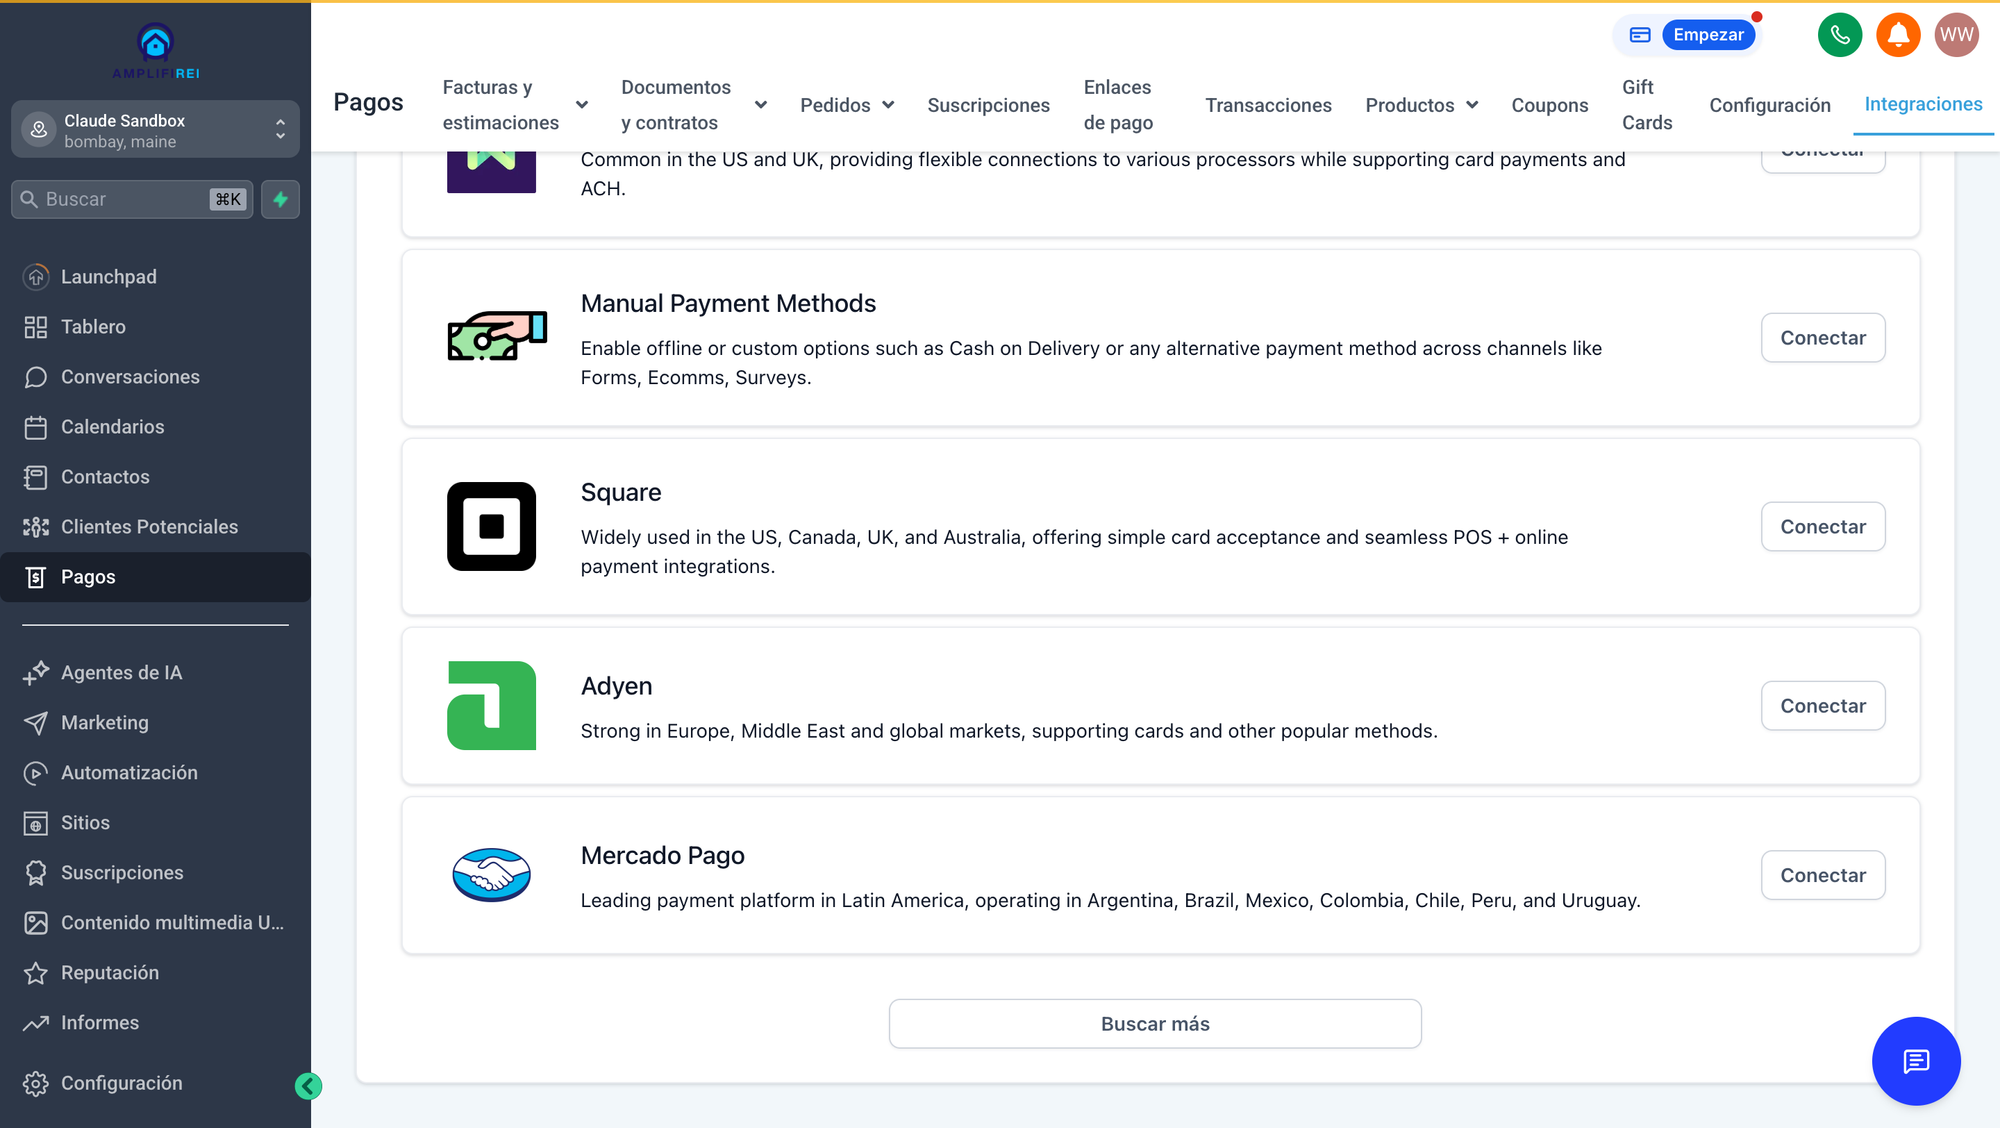
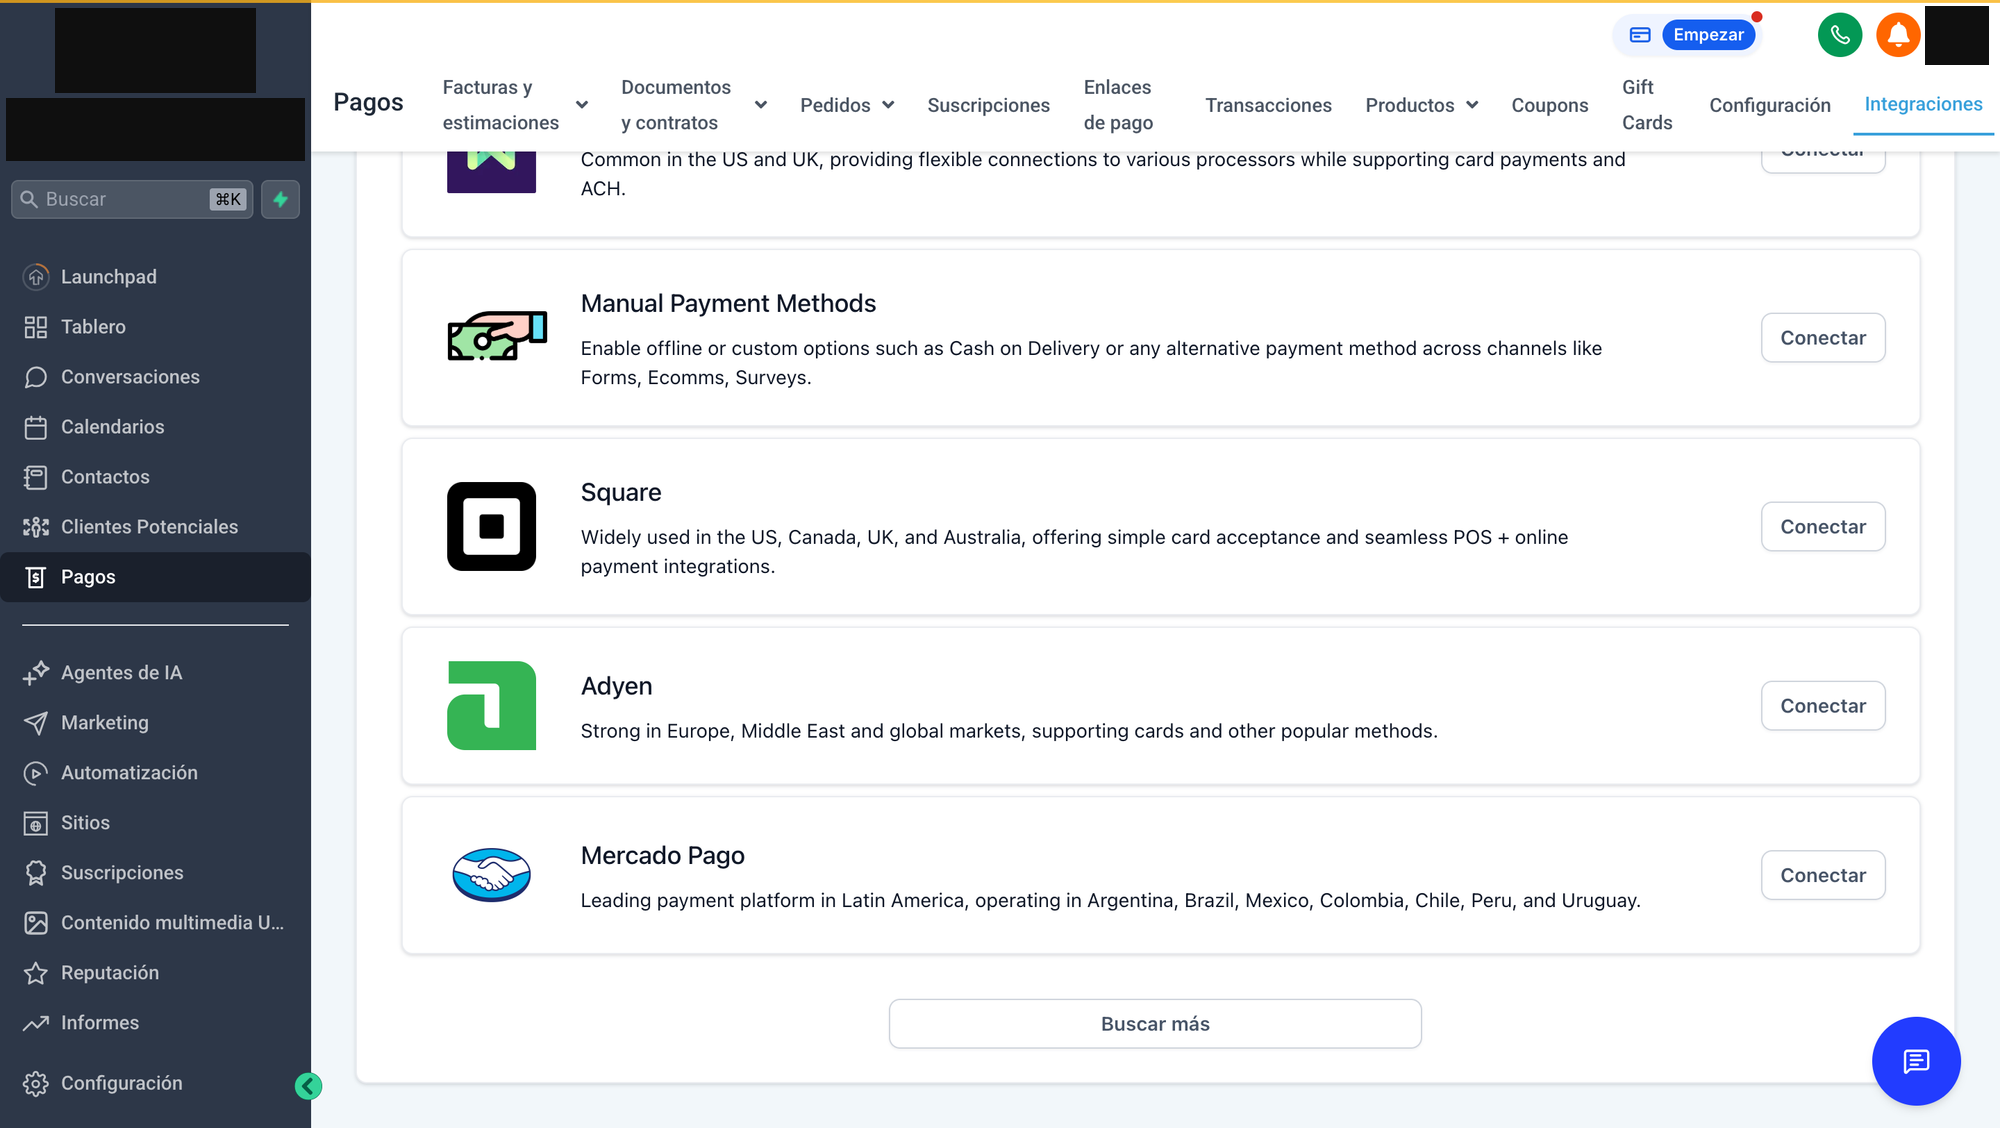
v0.3.5.0 feat: research-wedge rebuild #1 — configurar-workflows WhatsApp+MercadoPago + live image redaction fix (#47)
* feat: attested sandbox screenshots for es rebuild + redact 2 live June images in place

4 new redacted captures (WhatsApp offer, MP country selector, WhatsApp workflow
actions, workflows AI home). ghl-mercadopago-config-es.png and
ghl-mercadopago-card-es.png were live un-redacted (brand/sandbox identity visible).

* feat: rebuild configurar-workflows-whatsapp-mercadopago from wedge research (301->1554 words)

Answer-first per Caleb canon; firehose intro cut; 3 in-silo links; 5 figures;
2 trial CTAs restored; claim-ledger-gated content only; 4 review passes applied.

* chore: bump version and changelog (v0.3.5.0)

* docs: capture->redact->attest->publish hard rule in site CLAUDE.md (v0.3.5.0)

Gap that let two June captures go live un-redacted; now written where sessions read.

---------

Changed region(s): [[0.0, 0.0, 0.155, 0.1551], [0.961, 0.0, 1.0, 0.0621]]

diff --git a/CHANGELOG.md b/CHANGELOG.md
@@ -2,6 +2,15 @@
 
 All notable changes to globalhighlevel.com's static-site build are documented here.
 
+## [0.3.5.0] - 2026-07-28
+### Added
+- **First research-wedge rebuild is live: `configurar-workflows-gohighlevel-whatsapp-mercadopago` went from a 301-word shell to a 1,554-word how-to** built exclusively from verified sources (wedge vault, claim-ledger-gated). Answer-first structure per Caleb canon: a "Respuesta rápida" opens the page, the two firehose problem-agitation intro sections are gone, and a condensed "¿por qué?" follows the pasos. New content: WhatsApp setup with the 24-hour-window and template mechanics, two-layer pricing explained honestly ($10/mo platform→agency per docs; sub-accounts see their agency's resell price), the real 6-step Mercado Pago connection (native since 2026-04, 7 countries — in-product selector verified same-day), workflow build steps naming the 5 native WhatsApp actions, and a verifiable community-evidence section (300+-vote ideas thread, linked; named commenter quotes) replacing the fabricated "Caso Real" pattern. In-silo links added: up-link to /category/crm-communication/ + 2 contextual sibling spokes; zero cross-silo. Draft survived 3-pass codex research critique + codex native-es register pass + Claude adversarial pass + codex adversarial diff challenge (which caught a screenshot/caption mismatch and restored the two lost trial CTAs).
+- **4 first-hand sandbox screenshots wired in** (attested by owner 2026-07-28, solid-bar redaction: brand logo, sub-account name, avatar): WhatsApp sub-account offer screen, MP country selector, native WhatsApp workflow actions, workflows home with the beta AI generator; plus the June MP-card capture reused where the fresh integrations shot didn't show the MP card (codex adversarial catch — that capture was taken above the fold and stayed unpublished).
+### Fixed
+- **Two live images no longer leak the whitelabel brand/sandbox identity**: `ghl-mercadopago-config-es.png` and `ghl-mercadopago-card-es.png` (wired into the LATAM pagos post) had been published un-redacted by an earlier session — AMPLIFI REI logo, "Claude Sandbox" account name, and owner avatar visible. Both redacted in place with the standard solid-bar treatment.
+### Known
+- verify.py Check 4 reports 26 pre-existing canon link violations on main (hub-mercadopago + opiniones + authority-hub cross-silo links, incl. an auto-injected pillar link on this post). This branch adds zero new violations (violation sets diffed identical). Tracked for the hub-spoke linking cleanup.
+
 ## [0.3.4.0] - 2026-07-28
 ### Fixed
 - **28 Spanish posts no longer show their editorial scaffolding to readers.** The firehose-era es import shipped with the writer's own notes still in the body — 35 defects live on the site: bracketed editor notes readers could see (`[NOTA EDITORIAL: Aquí falta el caso de estudio…]`, `[SECCIÓN A COMPLETAR…]`, `[CONTINUAR CON STEPS TÉCNICOS…]`), **fabricated "Caso Real" case studies presented as real** (invented agencies and named invented people — "María" in Medellín, "Carolina" in CDMX, a Bogotá agency "que pasó de 3 a 15 clientes" — with invented revenue and conversion numbers; one admitted in its own editor note that the case was an "ejemplo estructura"), empty how-to stubs under promise-heavy headings, one unbracketed editor section ("Refrescar antes de publicar", now a reader-facing exchange-rate note), and one post that simply ended on a heading whose section never existed. A hypothetical framed as "Caso Real" was retitled "Ejemplo". All notes and fabricated cases are gone; real replacement content is a tracked follow-up (research-wedge rebuild).

diff --git a/globalhighlevel-site/CLAUDE.md b/globalhighlevel-site/CLAUDE.md
@@ -216,6 +216,22 @@ The canon link structure is enforced at render time by `build.py` and gated by
 - Student counts or community sizes
 - Awards, press mentions, certifications
 
+## Screenshots — capture → redact → attest → publish (HARD RULE, v0.3.5.0)
+
+No product screenshot reaches `images/` (and therefore the live site) without ALL of:
+1. Raw capture in `captures/<lang>/` (gitignored, local-only) + an entry in the
+   slug's `*.manifest.json` with `claim_supported` and `forbidden_overclaims`.
+2. Solid-bar redaction (NOT blur) of: brand logo, sub-account name box, avatar,
+   and any client/owner PII. Redacted file verified visually.
+3. Bill's attestation recorded in the manifest (`attested: true`, `attested_by`,
+   `attested_at`) BEFORE the image is copied into `images/`.
+4. The published `<img>` alt/caption must match what the image actually shows
+   (adversarial review caught a caption claiming a card not visible in frame).
+
+Why written down: on 2026-07-28 two June captures were found LIVE un-redacted
+(brand + sandbox identity visible) — published by a session that skipped this
+flow because it existed only as convention, not doc. Fixed in v0.3.5.0.
+
 ## Tests — pre-deploy gate suite
 
 Run before any deploy (all must pass): `python3 -m pytest scripts/ -q` — covers

diff --git a/TODOS.md b/TODOS.md
@@ -120,6 +120,10 @@ The submitter shipped in v0.2.11.0 (`scripts/submit_indexnow.py --urls FILE` or
 
 ### Rebuild stripped es sections via /research-product-wedge (Bill-directed)
 **Priority:** P1
+**PROGRESS v0.3.5.0 (2026-07-28):** Post 1 of 10 rebuilt and shipped (configurar-workflows-
+gohighlevel-whatsapp-mercadopago, 301→1554 words, wedge vault + attested screenshots +
+in-silo links). Remaining: 9 posts (workflows-…-automaticamente next — same research),
+Step 5 competitor sections, 4 fetch-resolvable ungroundeds, 128-post Caso Real decision.
 v0.3.4.0 stripped editor notes + fabricated "Caso Real" cases from 27 es posts;
 the honest gaps now need real content (Bill 2026-07-28: "strip and then use the
 research wedge to fix them"). Highest-value gaps: configurar-workflows-gohighlevel-
